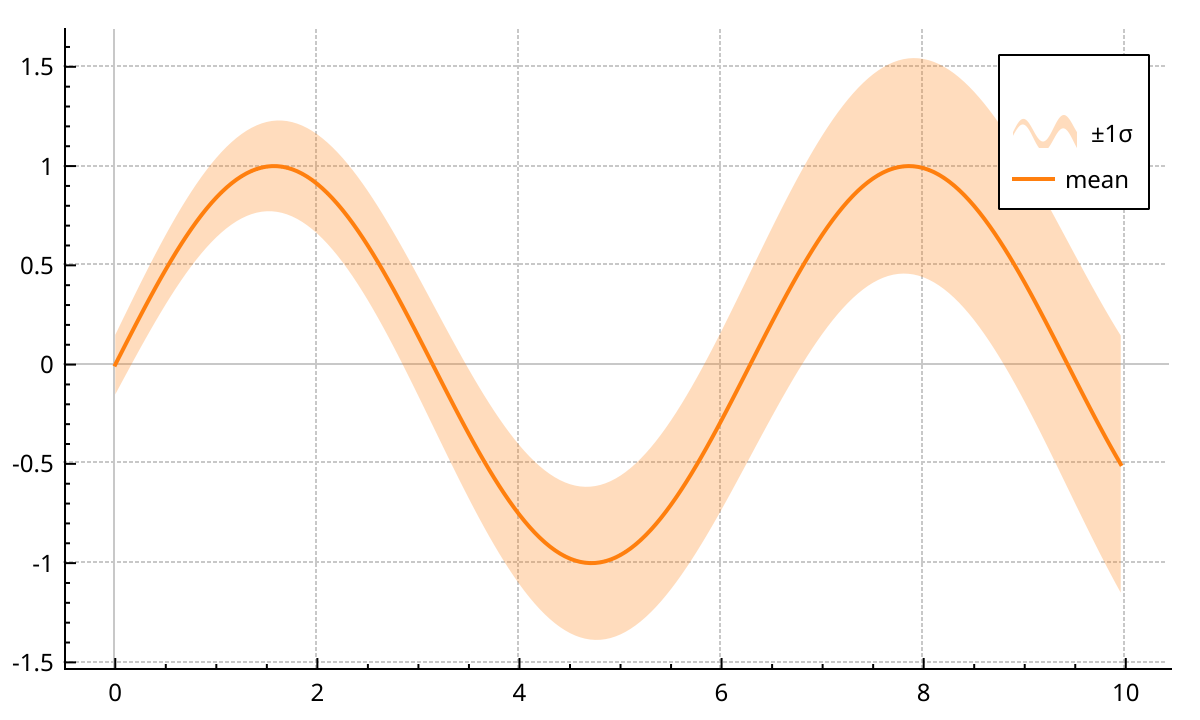
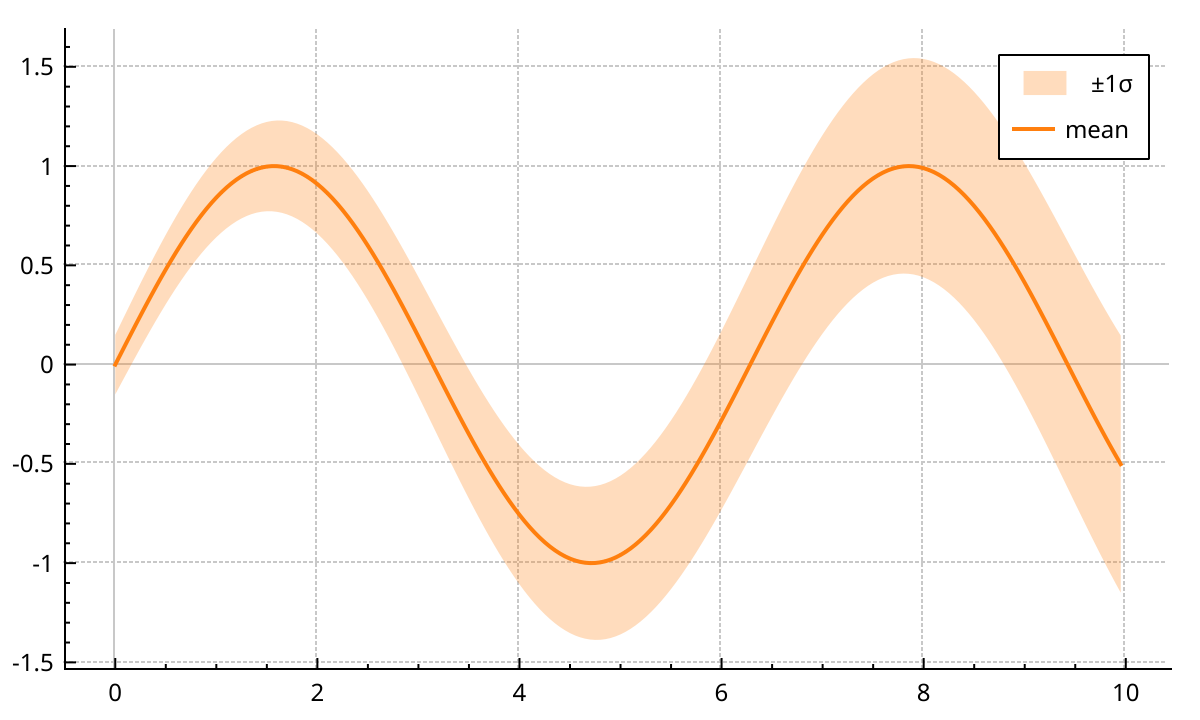
fix(fill): a pan keeps the band, and any user system pair fills

Changed region(s): [[0.8325, 0.0917, 0.9558, 0.3056], [0.925, 0.0917, 0.9558, 0.1222]]

diff --git a/src/plottables/plottable-fillbetween.cpp b/src/plottables/plottable-fillbetween.cpp
@@ -45,11 +45,12 @@ std::optional<Interval> sharedKeys(const QCPMultiDataSource& first,
 // \a toValue, exactly as a graph-to-graph fill reads its partner.
 std::vector<qcp::fill::SeriesRow> rowsOf(const QCPMultiDataSource& source, int component,
                                          const QCPScale& keyScale, const Interval& shared,
-                                         const QCPAxis* fromValue, const QCPAxis* toValue)
+                                         bool dataSpace, const QCPAxis* fromValue,
+                                         const QCPAxis* toValue)
 {
     const int begin = std::max(0, source.findBegin(shared.lower) - 1);
     const int end = std::min(source.size(), source.findEnd(shared.upper) + 1);
-    const auto gaps = source.gapsBefore(begin, end, /*cacheGaps=*/true, keyScale);
+    const auto gaps = source.gapsBefore(begin, end, /*cacheGaps=*/!dataSpace, keyScale);
     std::vector<qcp::fill::SeriesRow> rows;
     rows.reserve(std::size_t(std::max(0, end - begin)));
     for (int i = begin; i < end; ++i)
@@ -66,7 +67,7 @@ std::vector<qcp::fill::SeriesRow> rowsOf(const QCPMultiDataSource& source, int c
 // A fill draws in its lines' frame, so it asks for nothing the lines themselves do not: a
 // system that takes the lines (a user system with a projection, say) takes the fill between
 // them.
-QCPFillBetween::QCPFillBetween() : QCPPlottable(QCP::Capabilities())
+QCPFillBetween::QCPFillBetween() : QCPPlottable(QCP::capStraightSegments)
 {
     // A click inside the band reaches the lines under it and pans the view (P-5).
     setSelectable(QCP::stNone);
@@ -176,11 +177,13 @@ void QCPFillBetween::draw(QCPDrawContext& context) const
     if (!shared || !(shared->upper > shared->lower))
         return;
     const QCPScale keyScale = keyBase->scale();
+    const bool dataSpace = system()->kind() != QCPTransform::Kind::Cartesian;
     const bool across = first != second && qcp::fill::fillsAcrossValueAxes(*first, *second);
     std::vector<qcp::fill::SeriesRow> firstRows
-        = rowsOf(*first->dataSource(), mFirstComponent, keyScale, *shared, nullptr, nullptr);
+        = rowsOf(*first->dataSource(), mFirstComponent, keyScale, *shared, dataSpace, nullptr,
+                 nullptr);
     std::vector<qcp::fill::SeriesRow> secondRows
-        = rowsOf(*second->dataSource(), mSecondComponent, keyScale, *shared,
+        = rowsOf(*second->dataSource(), mSecondComponent, keyScale, *shared, dataSpace,
                  across ? second->valueAxis().get() : nullptr, across ? valueAxisRaw() : nullptr);
 
     std::vector<qcp::fill::StripPoint> rows = qcp::fill::unionRows(firstRows, secondRows);
@@ -230,13 +233,13 @@ void QCPFillBetween::drawLegendIcon(QCPDrawContext& icon) const
     const QCP::AxisRatio right { 0.835, 0.835 };
     if (!mBelowBrush)
     {
-        icon.rect(left, right, QPen(), brush());
+        icon.rect(left, right, QPen(Qt::NoPen), brush());
         return;
     }
     const QCP::AxisRatio lowerLeft { 0.165, 0.5 };
     const QCP::AxisRatio lowerRight { 0.835, 0.5 };
-    icon.rect(left, lowerRight, QPen(), brush());
-    icon.rect(lowerLeft, right, QPen(), *mBelowBrush);
+    icon.rect(left, lowerRight, QPen(Qt::NoPen), brush());
+    icon.rect(lowerLeft, right, QPen(Qt::NoPen), *mBelowBrush);
 }
 
 quint64 QCPFillBetween::dependencyRevision() const
@@ -248,8 +251,10 @@ quint64 QCPFillBetween::dependencyRevision() const
         first ? first->keyAxis().get() : nullptr, first ? first->valueAxis().get() : nullptr,
         second ? second->keyAxis().get() : nullptr, second ? second->valueAxis().get() : nullptr,
         mFirstComponent, mSecondComponent);
-    // The band is drawn in its system's frame: a mapping change (a shear, a resize) moves it.
-    if (const QCPCoordinateSystem* frame = system().get())
+    // In data space the recording reads the system's mapping, so a shear or a resize makes it stale
+    // (the graph's B4 rule). A cartesian band is pixels of its frame: a pan must reuse it.
+    if (const QCPCoordinateSystem* frame = system().get();
+        frame && frame->kind() != QCPTransform::Kind::Cartesian)
         revision = qHashMulti(revision, frame->revision());
     // Across two value axes the band reads both systems' pixels: a pan of either moves it.
     if (first && second && first != second && qcp::fill::fillsAcrossValueAxes(*first, *second))

diff --git a/tests/auto/test-fill-between/test-fill-between.cpp b/tests/auto/test-fill-between/test-fill-between.cpp
@@ -460,3 +460,66 @@ void TestFillBetween::aFillsLegendIconShowsItsBrushes()
     QVERIFY2(isGreen(plain.pixelColor(20, 6)), "the icon's upper half is not the fill's brush");
     QVERIFY2(isGreen(plain.pixelColor(20, 14)), "one brush fills both halves of the icon");
 }
+
+// A cartesian fill is a pixel recording: panning inside the data must reuse it, as the graph's own
+// fills did, so the GPU can shift the band instead of rebuilding it.
+void TestFillBetween::aCartesianFillIsNotReRecordedByAPan()
+{
+    const QCPHandle<QCPFillBetween> fill = mPlot->axisRect()->fillBetween(
+        QCPHandle<QCPGraph>(mFirst), QCPHandle<QCPGraph>(mSecond), greenAbove());
+    QVERIFY(fill);
+    mPlot->replot();
+    mPlot->replot();
+    const int recorded = fill->mCore.recordingCount();
+    mPlot->replot();
+    QCOMPARE(fill->mCore.recordingCount(), recorded);
+
+    mPlot->xAxis->setRange(0.2, 2.6); // a pan and a zoom-out, inside the lines' own keys
+    mPlot->replot();
+    QCOMPARE(fill->mCore.recordingCount(), recorded);
+}
+
+// Before the first data neither line has a column to fill to: the call is kept, as the graph's fills
+// were, and the band appears with the data.
+void TestFillBetween::aFillMadeBeforeTheDataDrawsWhenItComes()
+{
+    auto* first = mPlot->add<QCPGraph>().get();
+    auto* second = mPlot->add<QCPGraph>().get();
+    const QCPHandle<QCPFillBetween> fill = mPlot->axisRect()->fillBetween(
+        QCPHandle<QCPGraph>(first), QCPHandle<QCPGraph>(second), greenAbove());
+    QVERIFY2(fill, "a fill made before the data was refused");
+    mPlot->replot();
+    QVERIFY2(!isGreen(pixelAt(rendered(*mPlot), *mPlot->xAxis, *mPlot->yAxis, 0.5, 0.4)),
+             "a band is drawn before the lines have data");
+
+    first->setData(kKeys, kUpper);
+    second->setData(kKeys, kLower);
+    mPlot->replot();
+    QVERIFY2(isGreen(pixelAt(rendered(*mPlot), *mPlot->xAxis, *mPlot->yAxis, 0.5, 0.4)),
+             "the band did not come with the data");
+}
+
+// A column the fill names can disappear under it: the fill draws nothing, and says why once per
+// draw, as a component that never named a column does.
+void TestFillBetween::aFillOfAColumnThatDisappearsDrawsNothing()
+{
+    auto* graph = mPlot->add<QCPGraph>().get();
+    graph->setData(kKeys, std::vector<std::vector<double>> { kUpper, kLower });
+    const QCPHandle<QCPFillBetween> fill = mPlot->axisRect()->fillBetween(
+        QCPHandle<QCPGraph>(graph), QCPHandle<QCPGraph>(graph),
+        { .brush = kGreen, .firstComponent = 0, .secondComponent = 1 });
+    QVERIFY(fill);
+    mPlot->replot();
+    QVERIFY2(isGreen(pixelAt(rendered(*mPlot), *mPlot->xAxis, *mPlot->yAxis, 0.5, 0.4)),
+             "the band between the two columns is not drawn");
+
+    const auto previous = qcp::setMisuseHandler(test_misuse::record);
+    test_misuse::calls.clear();
+    graph->setData(kKeys, std::vector<std::vector<double>> { kUpper }); // the second column goes
+    mPlot->replot();
+    QCOMPARE(test_misuse::calls.size(), std::size_t(1));
+    const QImage image = rendered(*mPlot);
+    qcp::setMisuseHandler(previous);
+    QVERIFY2(!isGreen(pixelAt(image, *mPlot->xAxis, *mPlot->yAxis, 0.5, 0.4)),
+             "a column that disappeared still draws a band");
+}

diff --git a/tests/auto/test-user-system/test-user-system.cpp b/tests/auto/test-user-system/test-user-system.cpp
@@ -1314,9 +1314,10 @@ void TestUserSystem::aFillToAnotherGraphOnASkewRect()
     partner->setComponentPens({ QPen(Qt::NoPen) });
 
     const QColor brush(40, 220, 40, 80);
-    QVERIFY2(rect->fillBetween(QCPHandle<QCPGraph>(owner), QCPHandle<QCPGraph>(partner),
-                               { .brush = brush }),
-             "a fill to another graph was refused on a skew rect");
+    const QCPHandle<QCPFillBetween> fill
+        = rect->fillBetween(QCPHandle<QCPGraph>(owner), QCPHandle<QCPGraph>(partner),
+                            { .brush = brush });
+    QVERIFY2(fill, "a fill to another graph was refused on a skew rect");
     settle(plot);
 
     const QImage image = render(plot);
@@ -1326,6 +1327,12 @@ void TestUserSystem::aFillToAnotherGraphOnASkewRect()
              "the band to another graph is not drawn on the skew mapping");
     QCOMPARE(lightnessAt(image, pixelOf(system->pixelOf(4, 0.5))), 255);
     QCOMPARE(test_misuse::calls.size(), std::size_t(0));
+
+    // A user system draws in data space: a mapping change must record the band again.
+    const int recorded = fill->mCore.recordingCount();
+    rect->setShear(0.8);
+    settle(plot);
+    QVERIFY2(fill->mCore.recordingCount() > recorded, "a shear change kept the band's recording");
 }
 
 void TestUserSystem::aChannelFillAcrossSystemsDrawsNoBand()
@@ -1350,6 +1357,39 @@ void TestUserSystem::aChannelFillAcrossSystemsDrawsNoBand()
     settle(plot);
     QCOMPARE(lightnessAt(render(plot), inside), 255);
     QCOMPARE(test_misuse::calls.size(), std::size_t(0));
+}
+
+// A user system is not tied to the bottom/left pair: a fill on the top/right pair must be made
+// without asking the rect for a system it may create on the way.
+void TestUserSystem::aFillOnAUserSystemOfTheTopRightPairPaints()
+{
+    QCustomPlot plot;
+    plot.setBackground(Qt::white);
+    plot.plotLayout()->clear();
+    auto* rect = new SkewRect(&plot);
+    plot.plotLayout()->addElement(0, 0, rect);
+    QCPAxis* key = rect->addAxis(QCPAxis::atTop).get();
+    QCPAxis* value = rect->addAxis(QCPAxis::atRight).get();
+    key->setRange(0, 10);
+    value->setRange(0, 10);
+    settle(plot);
+
+    auto* first = rect->add<QCPGraph>(key, value).get();
+    auto* second = rect->add<QCPGraph>(key, value).get();
+    first->setData(QVector<double> { 2, 8 }, QVector<double> { 2, 2 });
+    second->setData(QVector<double> { 2, 8 }, QVector<double> { 8, 8 });
+    const QCPHandle<QCPFillBetween> fill
+        = rect->fillBetween(QCPHandle<QCPGraph>(first), QCPHandle<QCPGraph>(second),
+                            { .brush = QColor(255, 0, 0) });
+    QVERIFY2(fill, "a fill on a user system of the top/right pair was refused");
+    QCOMPARE(test_misuse::calls.size(), std::size_t(0));
+    settle(plot);
+
+    auto* system = static_cast<SkewSystem*>(rect->system(key, value).get());
+    QVERIFY(system);
+    const QPointF inside = pixelOf(system->pixelOf(5, 5));
+    QVERIFY2(rect->rect().contains(inside.toPoint()), "the sample lies outside the rect");
+    QVERIFY2(isRed(render(plot), inside), "the band on the top/right pair is not drawn");
 }
 
 void TestUserSystem::aCartesianChannelFillPartnerThatLostItsSystemDrawsNoBand()

diff --git a/src/layoutelements/axisrect-shortcuts.h b/src/layoutelements/axisrect-shortcuts.h
@@ -68,8 +68,8 @@ inline QCPHandle<QCPFillBetween> QCPAxisRect::fillBetween(const QCPHandle<QCPGra
     const QList<QCPAxis*> own = axesRaw();
     const auto onThisRect = [this, &own](const QCPGraph& line)
     {
-        const QCPCoordinateSystem* frame = line.system().get();
-        if (!frame || const_cast<QCPCoordinateSystem*>(frame)->area().get() != this)
+        QCPCoordinateSystem* frame = line.system().get();
+        if (!frame || frame->area().get() != this)
             return false;
         const QCPAxis* key = line.keyAxis().get();
         const QCPAxis* value = line.valueAxis().get();
@@ -90,21 +90,23 @@ inline QCPHandle<QCPFillBetween> QCPAxisRect::fillBetween(const QCPHandle<QCPGra
                             && namesAColumn(*second, options.secondComponent),
                         "the fill's component does not name a column of its line", { });
 
-    // The fill joins the frame the lines draw in: their own axis pair when they have one, else this
-    // rect's bottom and left pair, whose system must be theirs.
+    // The fill joins the frame the lines draw in: their own axis pair when they have one, else the
+    // axes their system maps through. No system(...) lookup: the lines already carry the system.
+    QCPCoordinateSystem* frame = first->system().get();
     QCPAxis* keyAxis = first->keyAxis().get();
     QCPAxis* valueAxis = first->valueAxis().get();
     if (!keyAxis || !valueAxis)
     {
-        keyAxis = xAxis();
-        valueAxis = yAxis();
-        QCP_CHECK_OR_RETURN(keyAxis && valueAxis
-                                && this->system(keyAxis, valueAxis).get() == first->system().get(),
+        keyAxis = qobject_cast<QCPAxis*>(frame ? frame->keyAxis().get() : nullptr);
+        valueAxis = qobject_cast<QCPAxis*>(frame ? frame->valueAxis().get() : nullptr);
+        QCP_CHECK_OR_RETURN(keyAxis && valueAxis && axesRaw().contains(keyAxis)
+                                && axesRaw().contains(valueAxis),
                             "the two lines of a fill must draw in this rect's system", { });
     }
     const QCPHandle<QCPFillBetween> fill = add<QCPFillBetween>(keyAxis, valueAxis);
     if (!fill)
         return fill;
+    fill->setSystem(frame); // the lines' own system, whatever pair its axes are on
     fill->setLines(first.get(), options.firstComponent, second.get(), options.secondComponent);
     fill->setBrush(options.brush);
     fill->setBelowBrush(options.belowBrush);

diff --git a/tests/auto/test-multigraph/test-multigraph.cpp b/tests/auto/test-multigraph/test-multigraph.cpp
@@ -3876,7 +3876,6 @@ void TestMultiGraph::noOverlapNoBand()
              "a band is drawn with no common key range");
 }
 
-// 2.x reset channelFillGraph() to null when the partner died: the fill is gone, not a fill to nothing.
 void TestMultiGraph::aFillToAGraphOfAnotherSystemIsAMisuse()
 {
     MisuseScope misuse;
@@ -4026,7 +4025,6 @@ void TestMultiGraph::theBandStaysOnTheGpuRibbon()
     QVERIFY2(isBlue(frame.pixelColor(probe)), "the GPU frame does not show the band");
 }
 
-// The order the drawing API keeps on both replays: fills, then bars, then lines.
 // The order the drawing API keeps on both replays: the fill, then the graph's bars, then its lines.
 void TestMultiGraph::fillsDrawUnderErrorBarsUnderLines()
 {
@@ -4241,7 +4239,6 @@ QCPGraph* selectableLines(QCustomPlot* plot)
     return mg;
 }
 
-//! Two one-column graphs: \a upper at 2 over \a lower at 1, keys 0..4.
 } // namespace
 
 // 2.x: setSelection on the graph selects those rows; they draw with the selected pen. The rows are
@@ -4353,9 +4350,6 @@ void TestMultiGraph::aGraphRowCastsToAPlottableRow()
     QCOMPARE(row->plottable().get(), static_cast<QCPPlottable*>(mg));
 }
 
-// 2.x order: setBrush, then the channel fill, then the data. The remembered brush reaching the new
-// component must colour the band, not replace it with a fill to zero.
-// 2.x: setBrush after setChannelFillGraph colours the channel.
 // F-3 (overrules 5c R-2): setBrush recolours a fill and keeps where it fills to.
 void TestMultiGraph::setBrushKeepsAFillsConstantTarget()
 {
@@ -4519,9 +4513,6 @@ void TestMultiGraph::makingAGraphUnselectableClearsEveryComponent()
     QVERIFY2(redNear(img, pixelOf(mPlot, 2, 1)), "the red line is still drawn selected");
 }
 
-// I2: 2.x drew no channel without a brush: setBrush(Qt::NoBrush) removes the band.
-// I3 + M11: a partner whose value axis moves to another rect has no system: no crash, no band.
-// M11: a partner taken from the plot is not this graph's partner any more.
 // I4: 2.x's 1D accessors answer 0 outside the data, as the old graph's did.
 void TestMultiGraph::theDataAccessorsAnswerZeroOutsideTheData()
 {

diff --git a/examples/plots/mainwindow.cpp b/examples/plots/mainwindow.cpp
@@ -202,13 +202,14 @@ void MainWindow::setupSincScatterDemo(QCustomPlot *customPlot)
   pen.setStyle(Qt::DotLine);
   pen.setWidth(1);
   pen.setColor(QColor(180,180,180));
-  customPlot->graph(0)->setName("Confidence Band 68%");
   customPlot->graph(0)->setPen(pen);
   customPlot->add<QCPGraph>();
-  customPlot->legend->removeItem(customPlot->legend->itemCount()-1); // don't show two confidence band graphs in legend
   customPlot->graph(1)->setPen(pen);
+  customPlot->graph(0)->removeFromLegend(); // the band is the legend row, not its edges
+  customPlot->graph(1)->removeFromLegend();
   customPlot->axisRect()->fillBetween(customPlot->graph(0), customPlot->graph(1),
-                                     { .brush = QBrush(QColor(255, 50, 30, 20)) });
+                                     { .brush = QBrush(QColor(255, 50, 30, 20)),
+                                       .name = QStringLiteral("Confidence Band 68%") });
   // add theory curve graph:
   customPlot->add<QCPGraph>();
   pen.setStyle(Qt::DashLine);

diff --git a/docs/snippets/graphs.cpp b/docs/snippets/graphs.cpp
@@ -113,6 +113,7 @@ DOC_SNIPPET(graphs_channel_fill, 600, 360)
     auto high = customPlot->add<QCPGraph>()
         .setData(t, upper)
         .setPen(Qt::NoPen);
+    high->removeFromLegend();   // the band is the legend row, not its upper edge
     customPlot->axisRect()->fillBetween(high, low,
                                         { .brush = QColor(255, 127, 14, 70), // high over low
                                           .name = QStringLiteral("±1σ") });

diff --git a/tests/auto/test-fill-between/test-fill-between.h b/tests/auto/test-fill-between/test-fill-between.h
@@ -31,6 +31,9 @@ private slots:
     void aDenseFillIsRebinnedAfterAZoom();
     void aSteppedFillSwapsColourWhereTheLinesSwap();
     void aFillsLegendIconShowsItsBrushes();
+    void aCartesianFillIsNotReRecordedByAPan();
+    void aFillMadeBeforeTheDataDrawsWhenItComes();
+    void aFillOfAColumnThatDisappearsDrawsNothing();
 
 private:
     QCustomPlot* mPlot = nullptr;

diff --git a/src/plottables/plottable-fillbetween.h b/src/plottables/plottable-fillbetween.h
@@ -68,6 +68,7 @@ protected:
 private:
     friend class TestFillBetween; //!< reads the recording count: a stale band is that bug
     friend class TestMultiGraph;  //!< reads the ribbon command, as it did on the graph's fill
+    friend class TestUserSystem;  //!< the skew band's recording follows its mapping
 
     void detachLines();
     void attachLines();

diff --git a/tests/auto/test-user-system/test-user-system.h b/tests/auto/test-user-system/test-user-system.h
@@ -52,6 +52,7 @@ private slots:
     void aMultiGraphFillBetweenColumnsOnASkewRect();
     void aFillToAnotherGraphOnASkewRect();
     void aChannelFillAcrossSystemsDrawsNoBand();
+    void aFillOnAUserSystemOfTheTopRightPairPaints();
     void aCartesianChannelFillAcrossValueAxesStillWorks();
     void aResizeMovesTheRevision();
 

diff --git a/src/plottables/plottable-graph.h b/src/plottables/plottable-graph.h
@@ -28,7 +28,6 @@
 #include <ranges>
 #include <span>
 #include <type_traits>
-#include <variant>
 #include <vector>
 
 class QCPPlottableRhiLayer;

diff --git a/docs/migrating.md b/docs/migrating.md
@@ -193,7 +193,7 @@ These patterns need a change:
 | `graph->setChannelFillGraph(other)` | `graph->axisRect()->fillBetween(graph, other, { .brush = brush })`. The graphs must share the key axis; their value axes may differ. 2.x took the graph's brush, so pass it here. |
 | `tracer->setGraph(graph)` and `setLineGraph(graph, component)` | `tracer->setGraph(graph, component)`. `lineGraph()` is `graph()`. |
 | `graph->setComponentFillBetween(a, b, brush)` (a 3.0 preview) | `graph->axisRect()->fillBetween(graph, graph, { .brush = brush, .firstComponent = a, .secondComponent = b })`. |
-| `graph->setComponentFillToGraph(0, other, 0, brush)` (a 3.0 preview) | `graph->axisRect()->fillBetween(graph, other, { .brush = brush })`. |
+| `graph->setComponentFillToGraph(a, other, b, brush)` (a 3.0 preview) | `graph->axisRect()->fillBetween(graph, other, { .brush = brush, .firstComponent = a, .secondComponent = b })`. |
 | `QCPGraph::LineStyle` | The same names: `QCPGraph::lsLine` and the others compile as before. |
 | A graph that drew with `QCPGraph2::setScatterColorValues()` | `setColorValues()` and `setGradient()`. |
 | `QCPGraph2::setScatterMaxPoints()` | Removed with the class. There is no replacement yet. |
